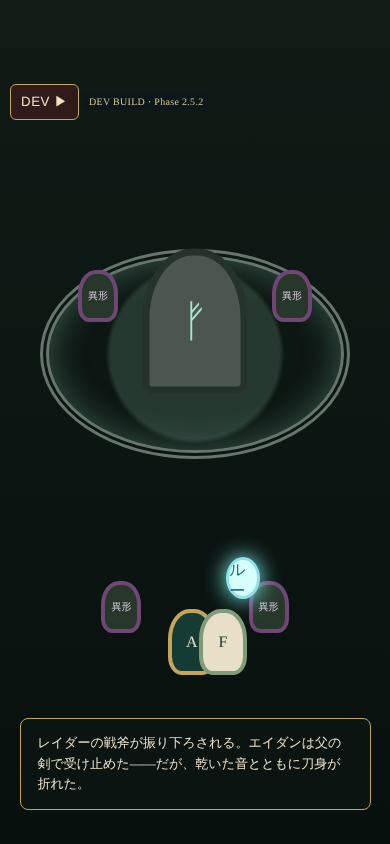
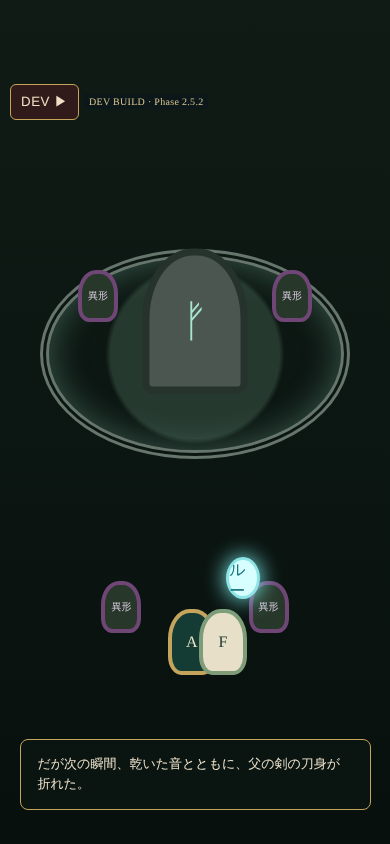
wip: altar order per final spec, wind-dance gate (feature-flagged), mana-drop chest, tests; Codex night brief
Claude-Session: https://claude.ai/code/session_01KtAepaq115Lcetj5TqkPJk

Changed region(s): [[0.0923, 0.8626, 0.8615, 0.9242], [0.9231, 0.8626, 0.9538, 0.8934]]

diff --git a/index.html b/index.html
@@ -141,7 +141,7 @@
 <div id="normalItems"></div>
 <button id="normalCommandToggle" type="button">COMMAND</button><div hidden="" id="normalBattleCmd"><button class="drawerClose" id="normalCommandClose" type="button">× 閉じる</button>
 <button id="nAtk">攻撃</button><button id="nSkill">一閃 TP30</button><button id="nDevKill" class="dev-only-command">DEV｜一撃撃破</button>
-<button id="nHeal">ヒール MP8</button><button id="nWindbloom">風花の舞 MP8</button><button id="nPrayer">風の祈り MP6</button>
+<button id="nHeal">ヒール MP8</button><button id="nWindDance" hidden>風の舞</button><button id="nWindbloom">風花の舞 MP8</button><button id="nPrayer">風の祈り MP6</button>
 <button id="nGuard">防御</button><button id="nItem">アイテム</button>
 </div>
 </div>
@@ -159,7 +159,7 @@
 <div id="rbParty"><div class="partyCard" id="cardA"><b>エイダン</b><div class="mini"><i id="pAHP"></i></div><span id="pAtext"></span></div><div class="partyCard" id="cardF"><b>フィオナ</b><div class="mini"><i id="pFHP"></i></div><span id="pFtext"></span></div></div><div id="rbTop"><div class="rbPanel" style="visibility:hidden"><b>エイダン</b><div class="rbBar"><div class="rbFill" id="rbAHP"></div></div><span id="rbAHPt"></span><div id="rbRune"><div class="rbRuneFill" id="rbRuneFill"></div></div><span id="rbRunet"></span></div>
 <div class="rbPanel"><b>ゴブリン・レイダー</b><div class="rbBar"><div class="rbFill" id="rbBHP"></div></div><span id="rbBHPt"></span><div id="rbPhase"></div></div></div>
 <div class="rbRaster" id="rbAidan"><img alt="エイダン" src="img/battle/characters/aidan/aidan_battle_idle.png"/></div><div class="rbNearHud rbNearA"><b>エイダン</b><div class="rbNearBars"><i><em id="rbNearAHP"></em></i><i class="tp"><em id="rbNearATP"></em></i></div><small id="rbNearATxt"></small></div><div class="rbRaster" id="rbFiona"><img alt="フィオナ" src="img/battle/characters/fiona/fiona_battle_idle.png"/></div><div class="rbNearHud rbNearF"><b>フィオナ</b><div class="rbNearBars"><i><em id="rbNearFHP"></em></i><i class="mp"><em id="rbNearFMP"></em></i></div><small id="rbNearFTxt"></small></div><div class="rbRaster louRaster" id="rbLou"><img alt="ルー" src="img/battle/characters/lou/lou_battle_idle.png"/><span class="louSupportTag">SUPPORT</span></div><div id="rbTurn"></div><div class="rbEnemyHud" id="rbEnemyHud"><b>ゴブリン・レイダー</b><div class="rbEnemyBar"><i id="rbEnemyHP"></i></div><small id="rbEnemyTxt">HP 1250</small></div><div class="rbRaster raiderRaster" id="raiderSprite"><img alt="ゴブリン・レイダー" src="img/battle/enemies/goblin_raider/goblin_raider_battle_idle.png"/></div><div class="battle-log-empty" id="rbMsg" aria-live="polite"></div>
-<button id="rbCommandToggle" type="button">COMMAND</button><div hidden="" id="rbCmd"><button class="drawerClose" id="rbCommandClose" type="button">× 閉じる</button><button id="rbAtk">攻撃</button><button id="rbDevKill" class="dev-only-command">DEV｜一撃撃破</button><button id="rbSkill">一閃 TP30</button><button id="rbHeal">ヒール MP8</button><button id="rbWindbloom">風花の舞 MP8</button><button id="rbRuneSkill">風の祈り MP6</button><button id="rbGuard">防御</button><button id="rbItem">アイテム</button><button id="rbWind">風の一閃</button></div>
+<button id="rbCommandToggle" type="button">COMMAND</button><div hidden="" id="rbCmd"><button class="drawerClose" id="rbCommandClose" type="button">× 閉じる</button><button id="rbAtk">攻撃</button><button id="rbDevKill" class="dev-only-command">DEV｜一撃撃破</button><button id="rbSkill">一閃 TP30</button><button id="rbHeal">ヒール MP8</button><button id="rbWindDance" hidden>風の舞</button><button id="rbWindbloom">風花の舞 MP8</button><button id="rbRuneSkill">風の祈り MP6</button><button id="rbGuard">防御</button><button id="rbItem">アイテム</button><button id="rbWind">風の一閃</button></div>
 </div>
 <div id="aftermathScene"><div id="aftermathAltar"></div><div id="aftermathSword">†</div><div id="aftermathParty">A　F　✧</div><div id="aftermathText"></div></div><div id="fortScene"><div id="fortWall"></div><div id="fortGate"></div><div id="fortBanner">⚜</div><div id="fortParty">A　F　✧</div><div id="fortText"></div></div>
 <button id="menuOpen" type="button">☰ MENU</button>
@@ -463,6 +463,7 @@ function grantStarterGear(announce){
  syncEquipTab();if(announce)storyToast('装備システムが解放された(メニュー EQUIP)');return true;
 }
 function syncStoryEquipment(){
+ if(window.WindDance)WindDance.sync(storyStage);
  const cur=EquipmentManager.get('aidan').weapon||null,story=!cur||cur==='father_sword'||cur==='oath_sword'||cur==='wooden_sword';
  if(story){const want=(storyStage>=13||(storyStage===12&&oathBound))?'oath_sword':'father_sword';if(cur!==want)EquipmentManager.setStoryWeapon('aidan',want)}
  if(storyStage>=15)grantStarterGear(false);
@@ -738,11 +739,12 @@ function updateNormalPartyHud(){
 function updateNormalCommands(){
  setNormalCommandDrawer(false);
  const a=normalActor==='aidan';
- ['nAtk','nSkill','nHeal','nPrayer','nWindbloom','nGuard','nItem','nDevKill'].forEach(id=>$('#'+id).classList.remove('v2-visible'));
+ ['nAtk','nSkill','nHeal','nPrayer','nWindbloom','nWindDance','nGuard','nItem','nDevKill'].forEach(id=>$('#'+id)?.classList.remove('v2-visible'));
  $('#nDevKill')?.classList.add('v2-visible');
  ['nAtk','nGuard','nItem'].forEach(id=>$('#'+id).classList.add('v2-visible'));
  if(a){$('#nSkill').classList.add('v2-visible')}
  else{['nHeal','nPrayer','nWindbloom'].forEach(id=>$('#'+id).classList.add('v2-visible'))}
+ const nwd=$('#nWindDance');if(nwd){const v=!a&&window.WindDance&&WindDance.commandVisible();nwd.hidden=!v;nwd.classList.toggle('v2-visible',!!v)}
  $('#nWindbloom').disabled=normalFMP<8;$('#nSkill').disabled=aatp<30;$('#nHeal').disabled=normalFMP<8;$('#nPrayer').disabled=normalFMP<6;
 }
 function openNormalItems(){
@@ -810,6 +812,8 @@ $('#nAtk').onclick=()=>chooseNormalAct('atk');
 $('#nSkill').onclick=()=>chooseNormalAct('skill');
 $('#nHeal').onclick=()=>chooseNormalAct('heal');
 $('#nWindbloom').onclick=()=>chooseNormalAct('windbloom');
+$('#nWindDance').onclick=()=>showBattleBanner('風の舞は調整中です。',900);
+$('#rbWindDance').onclick=()=>showRaiderBattleLog('風の舞は調整中です。');
 $('#nPrayer').onclick=()=>chooseNormalAct('prayer');
 $('#nGuard').onclick=()=>chooseNormalAct('guard');
 $('#nItem').onclick=()=>openNormalItems();
@@ -1178,14 +1182,19 @@ const altarLines=[
  'エイダン「下がって、二人とも！」',
  'エイダンは父から譲られた剣を抜き、飛びかかってきた小鬼を斬り払う。',
  'ルー「待って……！　奥から、もっと大きな気配が来る！」',
- '小鬼たちの奥から、地面を震わせる角笛が鳴り響いた。巨大なゴブリン・レイダーが戦斧を引きずりながら姿を現す。',
- 'エイダン「こいつが……村を襲った魔物の仲間か！」',
- 'レイダーの戦斧が振り下ろされる。エイダンは父の剣で受け止めた――だが、乾いた音とともに刀身が折れた。',
+ '森の奥から、地面を震わせる角笛が鳴り響く。小鬼たちの奥から、巨大なゴブリン・レイダーが戦斧を引きずって現れた。',
+ 'レイダーが戦斧を振り上げ、一気に踏み込んでくる。',
+ 'エイダンは父の剣で奇襲を受け止め、歯を食いしばって辛うじて押し返した。',
+ 'だが次の瞬間、乾いた音とともに、父の剣の刀身が折れた。',
  'エイダン「父さんの剣が……！」',
- 'フィオナ「エイダン！」',
- '追撃の斧が迫る。ルー「させない！」　ルーが小さな羽をはばたかせ、まばゆい光でレイダーの目を眩ませる。',
- 'フィオナ「風よ、お願い――！」　フィオナが祈るように舞うと、風の紋が足元に広がり、レイダーの巨体が一瞬だけ動きを止めた。',
- 'ルー「今だよ、エイダン！　あの石……エイダンを呼んでる！」',
+ '二撃目が迫る。エイダンは折れた剣を構えたまま、動けない。',
+ 'フィオナ「だめ……やめて！」',
+ '祈るように伸ばしたフィオナの手のまわりで、風が渦を巻く。意図せず、彼女の体が舞うように動いた。',
+ 'フィオナ「えっ……？　私、いま何を……。」',
+ '風の舞――周囲の風が一瞬だけ大きく動き、レイダーの巨体をその場に縫い止めた。',
+ 'ルー「今だよ！　ルーが風を押さえてる！」',
+ 'ルーが小さな羽を震わせ、乱れた風の流れを古代石へと導く。',
+ 'ルー「エイダン、あの石……エイダンを呼んでる！」',
  '古代石の表面を、風を表すルーンが走る。鼓動のような低い音が森全体へ響いた。',
  '――風が集まり、石の中に一本の剣の輪郭が浮かび上がる。',
  '声なき声「……誓いを、もう一度。」',
@@ -1198,7 +1207,7 @@ const altarLines=[
  'エイダン「父さん……。この剣で、今度こそ守ってみせる。」',
  'フィオナ「エイダン……その剣……。」',
  'ルー「風が戻ってきた……！」',
- 'レイダーが風の拘束を振りほどき、怒りの咆哮を上げる。周囲の小鬼たちが怯むなか、エイダンは誓いの剣を構えた。'
+ 'レイダーが風の拘束を振りほどき、怒りの咆哮を上げる。エイダンは誓いの剣を構えた。'
 ]
 let altarIndex=0;
 function startAltarScene(){
@@ -1206,12 +1215,15 @@ function startAltarScene(){
  $('#oathSword').style.display='none';$('#altarText').textContent=altarLines[0];
  setObj('古代祭壇で包囲を突破しよう');
 }
+const altarAt=k=>altarLines.findIndex(l=>l.startsWith(k));
 $('#altarScene').onclick=()=>{
  altarIndex++;
  if(altarIndex<altarLines.length){
    $('#altarText').textContent=altarLines[altarIndex];
-   if(altarIndex===20)$('#oathSword').style.display='block';
-   if(altarIndex===27){oathBound=true;EquipmentManager.setStoryWeapon('aidan','oath_sword');
+   if(altarIndex===altarAt('だが次の瞬間、乾いた音とともに'))EquipmentManager.setStoryWeapon('aidan',null);   // 父の剣が折れる(誓いの剣と契約するまで素手)
+   if(altarIndex===altarAt('風の舞――'))WindDance.learn();   // フィオナの風の舞: 初回発動で習得(再発火しても何も起きない)
+   if(altarIndex===altarAt('――風が集まり、'))$('#oathSword').style.display='block';
+   if(altarIndex===altarAt('エイダンが柄を握る')){oathBound=true;EquipmentManager.setStoryWeapon('aidan','oath_sword');
      ['ag1','ag2','ag3','ag4'].forEach(id=>$('#'+id).style.opacity='.28');
      $('#oathSword').style.filter='drop-shadow(0 0 28px #e7ffd8)';
    }
@@ -1225,7 +1237,7 @@ let rbHP=120,rbTP=0,rbFHP=105,rbFMP=36,rbBoss=1250,rbRune=0,rbGuardA=false,rbGua
 function rbPhase(){return rbBoss>820?1:(rbBoss>400?2:3)}
 
 function syncRaiderCommandClasses(){
- const ids=['rbAtk','rbSkill','rbHeal','rbRuneSkill','rbWindbloom','rbGuard','rbItem','rbWind'];
+ const ids=['rbAtk','rbSkill','rbHeal','rbRuneSkill','rbWindbloom','rbWindDance','rbGuard','rbItem','rbWind'];
  ids.forEach(id=>$('#'+id)?.classList.remove('rb-visible'));
 
  // Command ownership is explicit. Never infer from display/disabled state.
@@ -1235,6 +1247,7 @@ function syncRaiderCommandClasses(){
    $('#rbWind')?.classList.add('rb-visible');
  }else{
    ['rbAtk','rbHeal','rbRuneSkill','rbWindbloom','rbGuard','rbItem'].forEach(id=>$('#'+id)?.classList.add('rb-visible'));
+   const rwd=$('#rbWindDance');if(rwd){const v=window.WindDance&&WindDance.commandVisible();rwd.hidden=!v;rwd.classList.toggle('rb-visible',!!v)}
  }
 
  $('#rbDevKill')?.classList.add('rb-visible');
@@ -1954,9 +1967,11 @@ const v66DJ=devJump;devJump=function(k){const r=v66DJ(k);syncStoryEquipment();re
 <script src="js/data/item-data.js"></script>
 <script src="js/data/equipment-data.js?v=20261013eq"></script>
 <script src="js/inventory.js"></script>
+<script src="js/data/support-magic-data.js?v=20261013wd"></script>
 <script src="js/equipment.js?v=20261013eq"></script>
 <script>giveStarterSword();syncEquipTab();</script>
 <script src="js/equipment-ui.js?v=20261013eq"></script>
+<script src="js/support-magic.js?v=20261013wd"></script>
 <script src="js/data/shop-data.js"></script>
 <script src="js/shop.js"></script>
 <script src="js/field/quest-data.js"></script>

diff --git a/js/support-magic.js b/js/support-magic.js
@@ -1,0 +1,22 @@
+/* WindDance: learn state + visibility gate for Fiona's 風の舞 (data: js/data/support-magic-data.js).
+ * State lives in PartyManager.members.fiona.learned = {wind_dance:true}; members are saved wholesale, so the save format is unchanged
+ * and old saves simply lack the key (sync(storyStage) restores it for saves past the altar event).
+ * The battle command is gated by WINDBOUND_FEATURES.windDanceCommand (off until the numbers are approved; ?feature=windDanceCommand turns it on for testing). */
+(function () {
+  'use strict';
+  const ID = 'wind_dance';
+  const F = window.WINDBOUND_FEATURES = window.WINDBOUND_FEATURES || {windDanceCommand: false};
+  try { if (/[?&]feature=windDanceCommand\b/.test(location.search)) F.windDanceCommand = true; } catch (e) {}
+  const member = () => window.PartyManager && PartyManager.members.fiona;
+  const learned = () => { const m = member(); return !!(m && m.learned && m.learned[ID]); };
+  function learn() {
+    const m = member(); if (!m || learned()) return false;
+    (m.learned = m.learned || {})[ID] = true;
+    if (F.windDanceCommand && window.storyToast) storyToast('フィオナは「風の舞」を覚えた');
+    return true;
+  }
+  // old saves / dev jumps: past the altar event the spell is known
+  function sync(stage) { if (stage >= SupportMagicData[ID].learn.minStoryStage) learn(); }
+  const commandVisible = () => learned() && F.windDanceCommand === true;
+  window.WindDance = Object.freeze({id: ID, learned, learn, sync, commandVisible, data: () => SupportMagicData[ID]});
+})();

diff --git a/js/data/support-magic-data.js b/js/data/support-magic-data.js
@@ -1,0 +1,15 @@
+/* Support-magic master (pure data). 風の舞 = Fiona's first support spell: it is first cast by instinct in the Moss Forest altar scene
+ * (a story stall of the Goblin Raider), after which it can be used in normal battles.
+ * CONFIRMED: name, caster (fiona), kind (support), effect type (ally evasion up), duration is "some turns", learned at the altar event.
+ * UNDECIDED (null on purpose; do not fill without approval): evasion amount, turns, MP cost, single/all allies, stacking.
+ * The battle engine has no evasion stat yet, so the command stays behind the feature flag WINDBOUND_FEATURES.windDanceCommand (off).
+ * `proposal` holds the recommended values from the battle-system survey; it is documentation, never read by the game. */
+window.SupportMagicData = Object.freeze({
+  wind_dance: Object.freeze({
+    id: 'wind_dance', name: '風の舞', caster: 'fiona', kind: 'support',
+    effect: Object.freeze({type: 'evasion_up', target: null, amount: null, turns: null, stacking: null}),
+    mp: null,
+    learn: Object.freeze({event: 'moss_altar_first_cast', minStoryStage: 13}),
+    proposal: Object.freeze({amount: '+20% evasion (flat)', turns: 3, mp: 10, target: 'all allies', stacking: 'refresh duration, no stacking'})
+  })
+});

diff --git a/js/data/item-data.js b/js/data/item-data.js
@@ -22,6 +22,6 @@ window.ItemData = Object.freeze({
     // ドゥンヴァル砦 / 王都（stage15以降にしか行けない）
     tr_f1_barracks:{potion:2}, tr_f2_tower:{ether:1,gold:60}, tr_f3_armory:{gold:80,cloth_tunic:1}, tr_r1_alley:{gold:50}, tr_r2_garden:{silver_comb:1}, tr_r3_backyard:{potion:1,gold:30},
     // 風見の断崖 (cliff_moher_01_spiral_ascent): herb gathering spots + one chest
-    tr_c1_herb_slope_a:{herb_moss:1}, tr_c1_herb_slope_b:{herb_moss:1}, tr_c1_herb_ramp:{herb_moss:1}, tr_c1_herb_lip:{herb_moss:1}, tr_c1_cairn:{potion:1,gold:40,iron_sword:1}
+    tr_c1_herb_slope_a:{herb_moss:1}, tr_c1_herb_slope_b:{herb_moss:1}, tr_c1_herb_ramp:{herb_moss:1}, tr_c1_herb_lip:{herb_moss:1}, tr_c1_cairn:{potion:1,gold:40,ether:1}
   })
 });

diff --git a/tests/moss/m21_wind_dance.py b/tests/moss/m21_wind_dance.py
@@ -1,0 +1,43 @@
+# Fiona's 風の舞: gate (not usable before the altar event), learned at the first cast, save/load, old-save sync, no double fire, command visibility behind the feature flag.
+import os, sys, json
+from playwright.sync_api import sync_playwright
+PORT=os.environ.get('PORT','8765'); fails=[]; errs=[]
+def ck(c,m):
+    print(('ok   ' if c else 'FAIL ')+m)
+    if not c: fails.append(m)
+with sync_playwright() as p:
+    b=p.chromium.launch()
+    for flag in (False,True):
+        pg=b.new_page(viewport={'width':844,'height':390}); ev=pg.evaluate
+        pg.on('pageerror',lambda e:errs.append('PAGEERR '+str(e))); pg.on('console',lambda m:m.type=='error' and '404' not in m.text and errs.append(m.text))
+        pg.goto('http://localhost:%s/index.html?dev=1%s'%(PORT,'&feature=windDanceCommand' if flag else '')); pg.wait_for_timeout(1500); ev('closeDialogue()')
+        tag='[flag %s] '%('on' if flag else 'off')
+        ev("PrologueProgress.seed(3);Inventory.reset();EquipmentManager.reset();localStorage.removeItem(SAVE_KEY);delete PartyManager.members.fiona.learned;giveStarterSword();syncEquipTab()")
+        ck(ev("WindDance.learned()")==False and ev("WindDance.commandVisible()")==False,tag+'before the altar event: not learned, no command')
+        ck(ev("WindDance.data().effect.amount")is None and ev("WindDance.data().mp")is None,tag+'undecided numbers stay null (no balance change)')
+        ev("document.querySelector('#forestScene').style.display='none';startAltarScene()"); A=ev("altarLines"); d=[i for i,l in enumerate(A) if l.startswith('風の舞――')][0]
+        for i in range(1,len(A)):
+            ev("document.querySelector('#altarScene').click()")
+            if i==d-1: ck(ev("WindDance.learned()")==False,tag+'one page before the first cast: still not learned')
+            if i==d: ck(ev("WindDance.learned()")==True,tag+'learned on the first-cast page'); break
+        toast=ev("document.querySelector('#storyFlag').textContent")
+        ck(('風の舞' in toast)==flag,tag+'learn toast only with the feature on (%s)'%toast)
+        ev("document.querySelector('#altarScene').style.display='none'")
+        ck(ev("WindDance.learn()")==False,tag+'second learn() is a no-op (no double fire)')
+        ck(ev("WindDance.commandVisible()")==flag,tag+'command visible only with the feature flag')
+        # normal battle: Fiona's command row
+        ev("storyStage=15;startTraining&&0")
+        ev("(()=>{normalActor='fiona';})()")
+        has=ev("!!document.querySelector('#nWindDance')") and ev("!!document.querySelector('#rbWindDance')")
+        ck(has,tag+'command buttons exist (hidden by default)')
+        # save / load
+        ev("renderSystemTab('save');saveGrowthData()"); sv=json.loads(ev("localStorage.getItem(SAVE_KEY)"))
+        ck(sv['members']['fiona'].get('learned',{}).get('wind_dance')==True and sv['version']==30,tag+'save keeps it inside members (format v30 unchanged)')
+        ev("delete PartyManager.members.fiona.learned;loadGrowthData()"); ck(ev("WindDance.learned()")==True,tag+'load restores the learned state')
+        # old save from after the altar event (no learned key): restored by the story stage
+        sv['members']['fiona'].pop('learned',None); pg.evaluate("s=>localStorage.setItem(SAVE_KEY,s)",json.dumps(sv))
+        ev("delete PartyManager.members.fiona.learned;loadGrowthData()")
+        ck(ev("WindDance.learned()")==(ev("storyStage")>=13),tag+'old save: learned iff past the altar stage (stage %s)'%ev("storyStage"))
+        pg.close()
+    b.close()
+print('errors',errs[:4]); print('FAILS',len(fails)); sys.exit(1 if (fails or errs) else 0)

diff --git a/tests/moss/m18_moss_scenario.py b/tests/moss/m18_moss_scenario.py
@@ -58,23 +58,27 @@ with sync_playwright() as p:
     # ---- altar
     ev("closeDialogue();document.querySelector('#forestScene').style.display='none'")
     ev("startAltarScene()")
-    A=ev("altarLines");ck(len(A)==32,'altar has 32 lines (%d)'%len(A))
+    A=ev("altarLines");ck(len(A)==30,'altar has 30 lines (%d)'%len(A))
+    at=lambda k:[i for i,l in enumerate(A) if l.startswith(k)]
     oi=[i for i,l in enumerate(A) if l=='エイダン「……もう、目の前で誰かを失うのは嫌だ。」']
-    ck(oi==[26],'oath line unchanged, index 26 (%s)'%oi)
-    ck(A[24].startswith('夕日の丘') and A[25]=='エイダン「……強くなりたいなんて言って、村のみんなを守れなかった。」','recall + Aidan line directly before the oath')
-    bi=[i for i,l in enumerate(A) if '刀身が折れた' in l]
-    ck(bi==[13] and A[11].startswith('小鬼たちの奥から、地面を震わせる角笛') and A[16].startswith('追撃の斧') and A[17].startswith('フィオナ「風よ、お願い'),'order: Raider appears -> father sword breaks (13) -> Lou/Fiona stall (16-17) -> stone reacts')
-    sw=None;glow=None;wk=[]
+    ck(len(oi)==1,'oath line present once and unchanged (%s)'%oi)
+    grip=at('エイダンが柄を握る'); brk=at('だが次の瞬間、乾いた音とともに'); dance=at('風の舞――'); horn=at('森の奥から、地面を震わせる角笛'); lou=at('ルー「今だよ！'); stone=at('古代石の表面を'); parry=at('エイダンは父の剣で奇襲')
+    ck(horn and parry and brk and dance and lou and stone and grip and horn[0]<parry[0]<brk[0]<dance[0]<lou[0]<stone[0]<oi[0]<grip[0],'order: Raider -> parry -> sword breaks -> Fiona wind dance -> Lou -> stone -> oath -> contract')
+    ck(grip[0]==oi[0]+1,'the contract comes right after the oath line')
+    ck(all(len(l)<=62 for l in A),'every page is short enough (max %d chars)'%max(len(l) for l in A))
+    ck(not any('裂け目' in l or '落ちて' in l for l in A),'old "sword falls into the rift" beat is gone')
+    sw=None;glow=None;wk=[];ld=[]
     for i in range(1,len(A)):
         ev("document.querySelector('#altarScene').click()")
         sword=ev("getComputedStyle(document.querySelector('#oathSword')).display")
         op=ev("document.querySelector('#ag1').style.opacity")
-        wk.append((i,ev("EquipmentManager.get('aidan').weapon")))
+        wk.append((i,ev("EquipmentManager.get('aidan').weapon"))); ld.append((i,ev("WindDance.learned()")))
         if sw is None and sword!='none': sw=i
         if glow is None and op=='0.28': glow=i
-        if i==27: break
-    ck(sw==20,'sword appears on line 20 (%s)'%sw)
-    ck(glow==27 and A[27].startswith('エイダンが柄を握る'),'grip/glow fires on the grip line (index %s)'%glow)
-    ck(all(w=='father_sword' for i,w in wk if i<27) and wk[-1][1]=='oath_sword','weapon: father sword until the contract line, then the oath sword')
+        if i==grip[0]: break
+    ck(sw==at('――風が集まり')[0],'sword appears on its line (%s)'%sw)
+    ck(glow==grip[0],'grip/glow fires on the grip line (index %s)'%glow)
+    ck(all(w=='father_sword' for i,w in wk if i<brk[0]) and all(w is None for i,w in wk if brk[0]<=i<grip[0]) and wk[-1][1]=='oath_sword','weapon: father sword -> broken (empty) -> oath sword at the contract')
+    ck(all((not l) for i,l in ld if i<dance[0]) and all(l for i,l in ld if i>=dance[0]),'Fiona learns the wind dance exactly on its first cast line')
     print(errs[:4])
 print('FAILS',len(fails))

diff --git a/tests/moss/m20_sword_equipment.py b/tests/moss/m20_sword_equipment.py
@@ -19,8 +19,10 @@ with sync_playwright() as p:
         ck(ev("document.querySelector('[data-stab=equip]').hidden")==True,'[%s] EQUIP tab hidden during the prologue'%view)
         # ---- altar
         ev("document.querySelector('#forestScene').style.display='none';startAltarScene()")
-        A=ev("altarLines"); shots={13:'01_sword_breaks',17:'02_wind_dance_stall',20:'03_stone_reacts',27:'04_contract'}
-        for i in range(1,28):
+        A=ev("altarLines"); at=lambda k:[i for i,l in enumerate(A) if l.startswith(k)][0]
+        shots={at('だが次の瞬間、乾いた音とともに'):'01_sword_breaks',at('風の舞――'):'02_wind_dance_stall',at('ルー「今だよ！'):'03_lou_support',at('古代石の表面を'):'04_stone_reacts',at('エイダンが柄を握る'):'05_contract'}
+        last=max(shots)
+        for i in range(1,last+1):
             ev("document.querySelector('#altarScene').click()")
             if i in shots:
                 pg.wait_for_timeout(150)
@@ -35,12 +37,12 @@ with sync_playwright() as p:
         gi=[i for i,l in enumerate(F) if '支給品' in l]; ck(gi==[6],'[%s] supply line index 6 (%s)'%(view,gi))
         for i in range(1,7): ev("document.querySelector('#fortScene').click()")
         ck(ev("EquipmentManager.isUnlocked()")==True and ev("Inventory.count('leather_cap')+Inventory.count('leather_armor')+Inventory.count('bronze_ring')")==3,'[%s] fort: gear granted, equipment unlocked'%view)
-        pg.screenshot(path='%s/%s_05_fort_supply.png'%(OUT,view))
+        pg.screenshot(path='%s/%s_06_fort_supply.png'%(OUT,view))
         ev("document.querySelector('#fortScene').style.display='none';storyStage=15")
         ev("document.querySelector('#menuOpen')&&document.querySelector('#menuOpen').click();renderSystemTab('equip')")
         ck(pg.locator('#systemBody [data-eq-slot]').count()==5,'[%s] EQUIP tab: 5 sockets'%view)
         ov=ev("(()=>{const m=document.querySelector('#systemMenu');return m?m.scrollWidth-m.clientWidth:0})()"); ck(ov<=1,'[%s] equip menu: no horizontal overflow (%s)'%(view,ov))
-        pg.screenshot(path='%s/%s_06_equip_menu.png'%(OUT,view))
+        pg.screenshot(path='%s/%s_07_equip_menu.png'%(OUT,view))
         # ---- save round trip
         ev("EquipmentManager.equip('aidan','leather_cap');renderSystemTab('save');saveGrowthData();EquipmentManager.reset();Inventory.reset();loadGrowthData()")
         ck(ev("EquipmentManager.get('aidan').weapon")=='oath_sword' and ev("EquipmentManager.get('aidan').head")=='leather_cap' and ev("EquipmentManager.isUnlocked()")==True,'[%s] save/load keeps oath sword, cap and unlock'%view)

diff --git a/tests/system/equipment_ui_flow_test.py b/tests/system/equipment_ui_flow_test.py
@@ -32,9 +32,9 @@ with sync_playwright() as p:
         pt=pg.evaluate("([x,y])=>{const r=document.querySelector('#forestWorld').getBoundingClientRect(),s=FieldCamera.scale;return [r.left+x*s,r.top+(y-14)*s]}",[t['x'],t['y']])
         pg.mouse.click(pt[0],pt[1]); pg.wait_for_timeout(600)
     ev("storyStage=3"); click_chest()
-    check(ev("Inventory.count('iron_sword')")==0 and 'tr_c1_cairn' not in ev("MossForest.opened"),'stage 3: the cairn chest stays shut (and unclaimed)')
+    check(ev("Inventory.count('ether')")==0 and 'tr_c1_cairn' not in ev("MossForest.opened"),'stage 3: the cairn chest stays shut (and unclaimed)')
     ev("storyStage=15"); click_chest()
-    check(ev("Inventory.count('iron_sword')")==1 and ev("Inventory.count('potion')")>=1,'stage 15: chest opens and gives the iron sword (+ its other contents)')
+    check(ev("Inventory.count('ether')")>=1 and ev("Inventory.count('iron_sword')")==0 and ev("Inventory.count('potion')")>=1,'stage 15: chest opens and gives the mana drop (魔力の雫) instead of the iron sword')
     # --- UI (the EQUIP tab opens only after the prologue)
     ev("document.querySelector('#menuOpen').click()")
     ev("EquipmentManager.reset();syncEquipTab()"); ev("renderSystemTab('equip')")

diff --git a/docs/handoff/codex-night-20261013.md b/docs/handoff/codex-night-20261013.md
@@ -1,0 +1,33 @@
+# Codex 指示書(夜間・第4弾): 風の舞の調査 / 全マップ調査 / 独立検証(2026-10-13)
+
+発注: Claude(統括)。基準ブランチ: `feat/equipment-unlock-sword`(最新を取得すること。装備・祭壇シナリオ・風の舞ゲートは Claude が実装済み・テスト実行中)。
+上位の方針は夜間統合開発指示書(2026-10-13版)。ユーザーは就寝中。**mainへのマージはしない(Claudeが条件確認のうえ実施)**。
+
+## 0. 共通ルール
+1. 各依頼ごとに `work/codex-night-<task>` を `feat/equipment-unlock-sword` から切る。force push禁止。
+2. **触ってはいけないファイル**(Claudeが編集中): `index.html` / `js/equipment*.js` / `js/support-magic.js` / `js/data/*.js` / `js/field/*` / `data/maps/*.json` / `tests/system/equipment*` / `tests/moss/m18_* m20_* m21_* m19_*`。新規ファイルと docs のみ追加してよい。
+3. 本編のマップ・セーブ形式・ストーリー進行・戦闘数値・採用済みアセットは変更しない。
+4. テストは並列実行しない。静的サーバーは自分のポートで自分で起動・停止する(8765を共用しない。例 8780番台)。
+5. 報告: ブランチ名、コミットID、実行コマンドと結果、未検証と理由。未実施を合格扱いしない。
+
+## 依頼I(最優先): 風の舞の推奨値調査(コード変更なし)
+確定: フィオナの支援魔法「風の舞」=味方の回避率を一定ターン上昇。初回はモス森祭壇で発動(足止めは演出)。未確定: 上昇値、持続ターン、MP消費、単体/全体、重ねがけ。
+- 戦闘エンジンを読み(`index.html` の通常戦闘/レイダー戦、`js/prologue-combat.js`、`js/battle-*.js`)、被ダメージ・命中処理の実装を表にする。**現状は回避率の概念がない**ため、導入に必要な変更点(どの関数のどこで判定するか)を最小差分案として列挙する。
+- 既存の数値(エイダン/フィオナのHP・MP、レイダーの攻撃値、破砕斬の扱い、風花の舞 MP8 ほか)と比較し、推奨値を3案(控えめ/標準/強め)で示す。各案で、レイダー戦の想定被ダメージ・必要ターン・MP消費が元の難易度(HP1250、フェーズ、`AGENTS.md` §7)をどれだけ変えるか概算する。
+- 注意: 既存の「風花の舞(MP8・風属性の攻撃魔法)」と名前が近い。混同を避ける表示名・ログ文言の案を出す。
+- 成果物: `docs/handoff/wind-dance-proposal-20261013.md`(コードなし)。Claudeは `js/data/support-magic-data.js` の `proposal` を参考にするが、採用はユーザー確認後。
+
+## 依頼J: 全マップ調査表 `tools/moss/survey_maps.py`(新規)+ `docs/qa/map-survey-20261013.md`
+- `data/maps/*.json` の全件(件数は最新を数える)を読み、1マップ1行で出力: マップID、表示名、サイズ、地形/オブジェクト数、NPC/敵/宝箱/イベントゾーン/遷移の数、`height` の有無、屋内/屋外の別、立体化の候補(高台・低地・階段・坂・崖・橋・滝があり得る箇所の推定)、到達可能性の自動チェック(既存の `tools/moss/` のチェッカー類を参照して使える分だけ)、必要素材の推定。
+- 優先順位(夜間指示書): 断崖・夕日の丘 → ドゥンヴァル砦 → モスA1 → A2 → A3 → リルド村 → その他。表はこの順を先頭にする。
+- コードは読むだけ。マップJSONは編集しない。`--json` 出力も付ける。
+
+## 依頼K: 独立検証(`feat/equipment-unlock-sword` の最新に対して、読み取りと実行のみ)
+次を確認し、結果と問題点を `docs/qa/night-verify-20261013.md` に書く(修正はしない。差分案があれば別ブランチ)。
+1. シナリオ: 祭壇の台詞(`index.html` の `altarLines`)が確定順(結界解除→最奥地→異変→レイダー登場→奇襲を辛うじて防ぐ→父の剣が折れる→窮地→フィオナの風の舞→ルー→古代石→誓い→契約→レイダー戦)に合うか。誓いの台詞「……もう、目の前で誰かを失うのは嫌だ。」が一字一句不変か。1ページが約2行/全角60字程度か。旧演出(剣が裂け目へ落ちる)・旧台詞・ジャーナル・docs・テストへの残存を grep で洗う。
+2. セーブ互換: 旧セーブ(木剣を装備/バッグ、`accessory` 単一スロット、ステージ15以上、風の舞キー無し)を作って読み込み、装備・解放・支給の二重付与・風の舞の復元を確認。
+3. 装備テスト・シナリオテスト(`tests/system/equipment_test.py` `equipment_ui_flow_test.py` `tests/moss/m18_moss_scenario.py` `m20_sword_equipment.py` `m21_wind_dance.py`)を単独・順次で実行(最新が必要な場合は少し待つか、コミットIDを明記)。
+4. 390×844 と 844×390 で、祭壇の各ページ・砦の支給ページ・EQUIPメニューのスクリーンショットを撮り、見切れや重なりを確認する。
+
+## 報告フォーマット
+1. ブランチ名とコミットID 2. 変更ファイル一覧(新規のみのはず) 3. 実行コマンドと結果 4. 未検証と理由 5. 気づいた問題とClaudeへの質問
